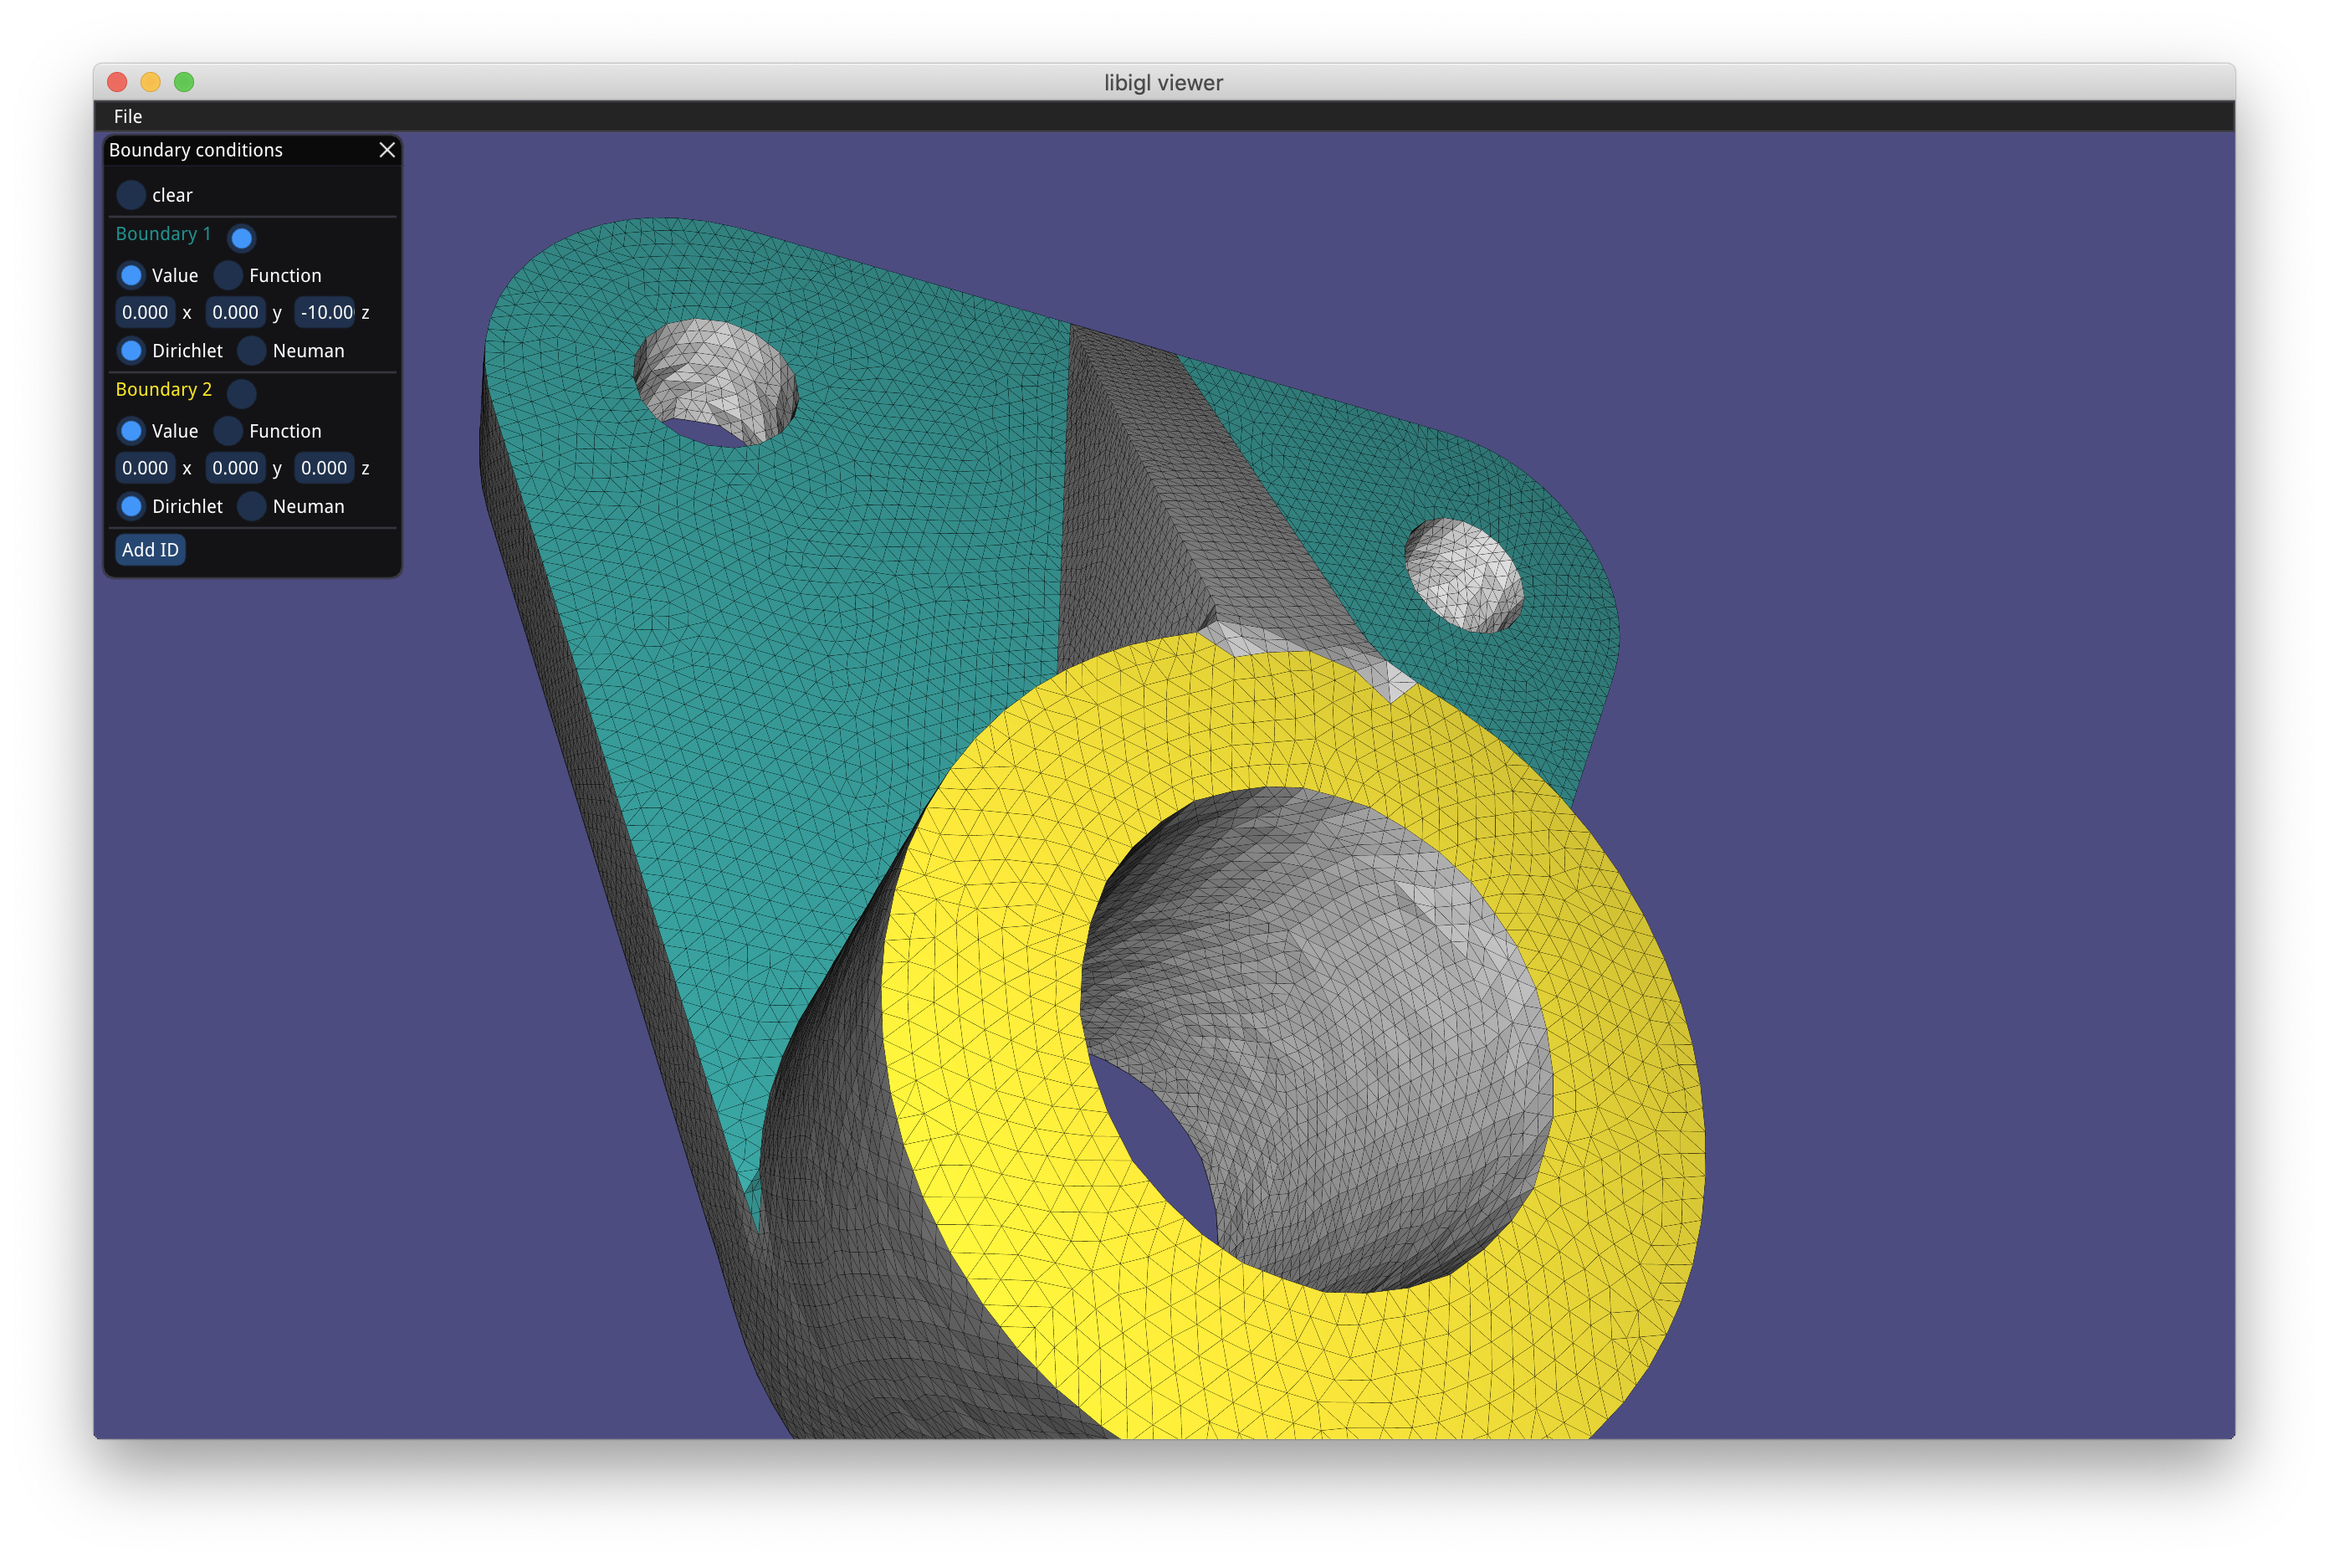
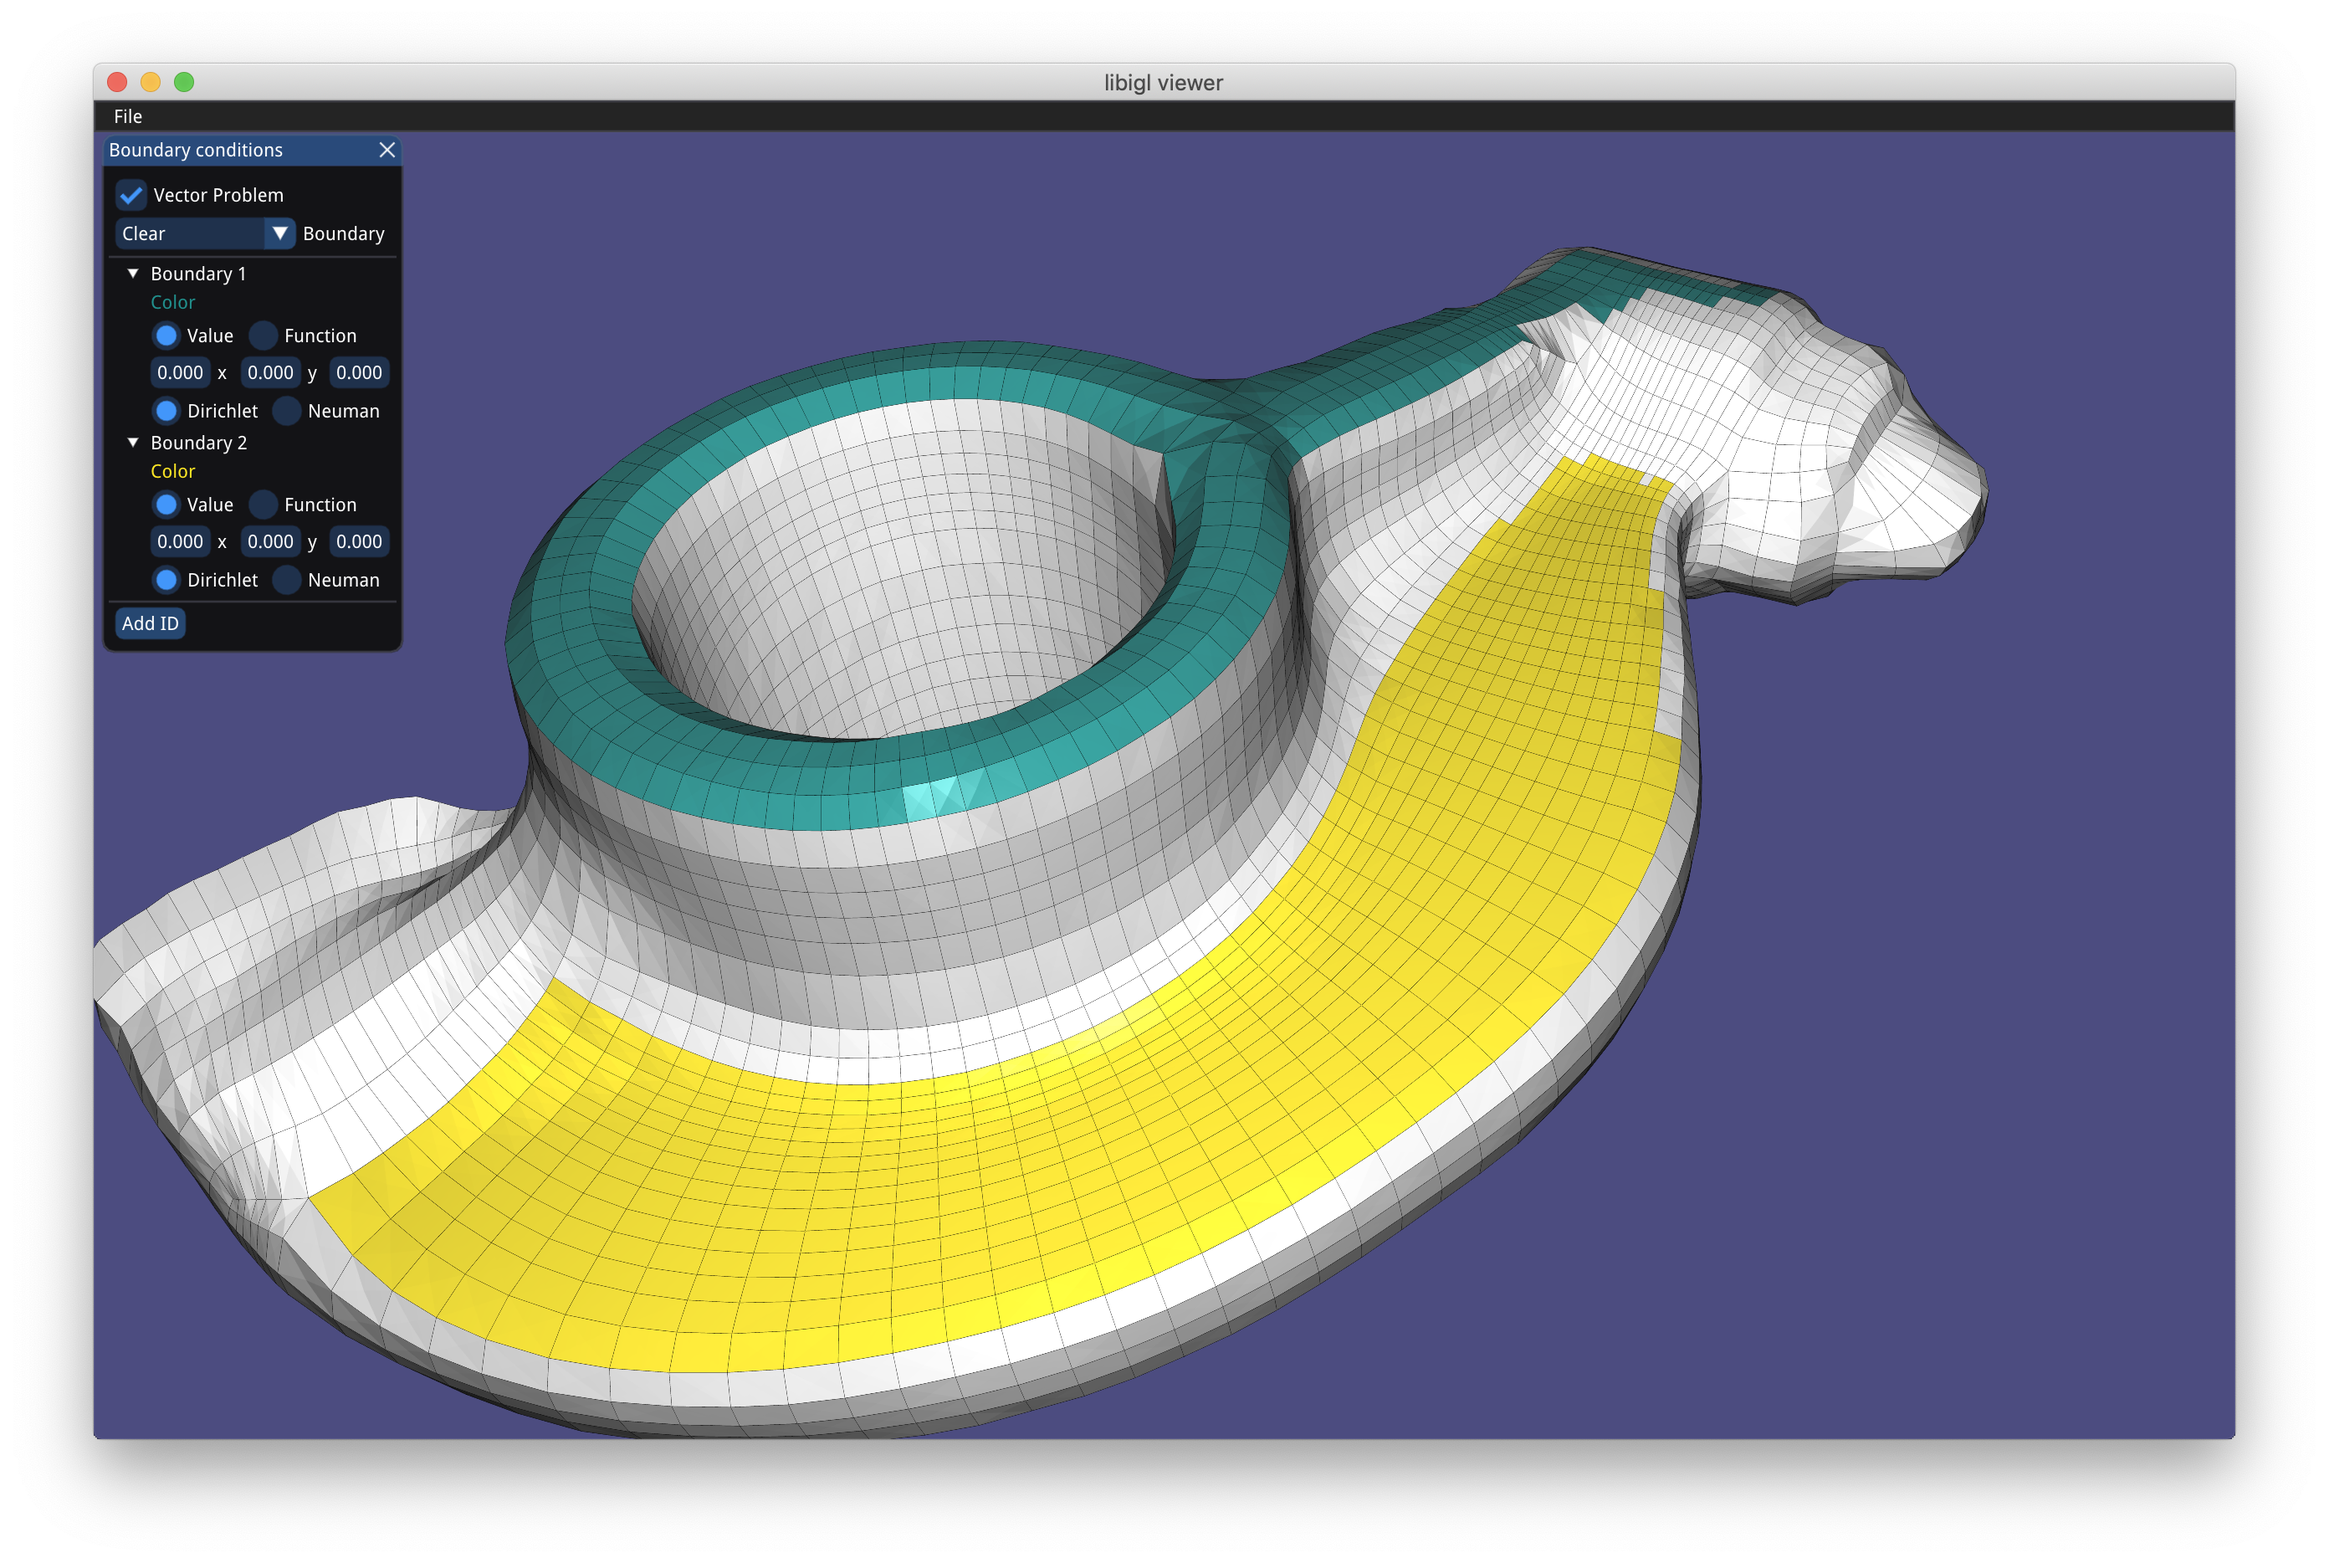
updated bc setter tutotrial

diff --git a/docs/documentation.md b/docs/documentation.md
@@ -89,7 +89,7 @@ Complete example
 * **tensor_formulation**: HookeLinearElasticity, LinearElasticity, NeoHookean, Ogden, SaintVenant
 * **mixed_formulation**: IncompressibleLinearElasticity, Stokes
 
-* **problem**: CompressionElasticExact, Cubic, DrivenCavity, Elastic, ElasticExact, ElasticZeroBC, Flow, Franke, GenericTensor, Gravity, Kernel, Linear, LinearElasticExact, MinSurf, PointBasedTensor, Quadratic, QuadraticElasticExact, Sine, TestProblem, TimeDependentFlow, TimeDependentScalar, TorsionElastic, Zero_BC
+* **problem**: CompressionElasticExact, Cubic, DrivenCavity, Elastic, ElasticExact, ElasticZeroBC, Flow, Franke, GenericScalar, GenericTensor, Gravity, Kernel, Linear, LinearElasticExact, MinSurf, PointBasedTensor, Quadratic, QuadraticElasticExact, Sine, TestProblem, TimeDependentFlow, TimeDependentScalar, TorsionElastic, Zero_BC
 
 
 * **solver_type**: Eigen::BiCGSTAB, Eigen::ConjugateGradient, Eigen::GMRES, Eigen::MINRES, Eigen::SimplicialLDLT, Eigen::SparseLU, Hypre,Pardiso
@@ -158,6 +158,35 @@ f_{3D}(x,y,z) &= \begin{bmatrix}(xy + x^2 + y^3 + 6z)/80\\ (xz - z^3 + xy^2 + 3x
 **Form**: scalar<br/>
 **Description**: solves for the 2D and 3D Franke function
 
+
+### GenericScalar
+**Has exact solution**: false<br/>
+**Time dependent**: false<br/>
+**Form**: scalar<br/>
+**Description**: solves for generic tensor problem with zero rhs<br/>
+**Options**:
+```json
+"use_mixed_formulation": false,     "Use mixed formulation"
+"dirichlet_boundary": [             "List of Dirichelt boundaries"
+{
+    "id": 1,                        "Boundary id"
+    "value": 0                      "Boundary value"
+},
+{
+    "id": 2,                        "Boundary id"
+    "value": "sin(x)+y"             "Formulas are supported"
+}],
+"neumann_boundary": [               "List of Neumann boundaries"
+{
+    "id": 3,                        "Boundary id"
+    "value": 1,                     "Boundary value"
+},
+{
+    "id": 4,                        "Boundary id"
+    "value": "x^2"                  "Formulas are supported"
+}]
+```
+
 ### GenericTensor
 **Has exact solution**: false<br/>
 **Time dependent**: false<br/>
@@ -178,16 +207,16 @@ f_{3D}(x,y,z) &= \begin{bmatrix}(xy + x^2 + y^3 + 6z)/80\\ (xz - z^3 + xy^2 + 3x
 },
 {
     "id": 2,                        "Boundary id"
-    "value": ["sin(x)+y", "z^2", 0],"Formulas are supported"
+    "value": ["sin(x)+y", "z^2", 0] "Formulas are supported"
 }],
 "neumann_boundary": [               "List of Neumann boundaries"
 {
     "id": 3,                        "Boundary id"
-    "value": [0, 0, 0],             "Boundary vector value"
+    "value": [0, 0, 0]              "Boundary vector value"
 },
 {
     "id": 4,                        "Boundary id"
-    "value": ["sin(x)+y", "z^2", 0],"Formulas are supported"
+    "value": ["sin(z)+y", "z^2", 0] "Formulas are supported"
 }]
 ```
 

diff --git a/docs/tutorial.md b/docs/tutorial.md
@@ -65,7 +65,7 @@ Boundary Conditions
 For more advanced problems such as `GenericTensor`, `TorsionElastic`, or `DrivenCavity` the boundary conditions might be different for each boundary. For instance for the `TorsionElastic` problem you need to specify which part is fixed and which part moves. PolyFEM uses boundary tags to mark boundary primitives (edges in 2D and faces in 3D). By default:
 
 - in 2D all edges which barycenter is close up to 1e-7 to the left side of the bounding box gets tag 1, the right side gets 3, bottom 2, and top 4. Any other boundary gets 7.
-- in 3D the threshold is a bit larger (1e-2) and x-direction gets 1, 3, y-direction gets 2,4, and z-direction gets 5,6. . Any other boundary gets 7.
+- in 3D the threshold is a bit larger (1e-2) and x-direction gets 1, 3, y-direction gets 2, 4, and z-direction gets 5, 6. Any other boundary gets 7.
 
 You can also specify a file containing a list of integers per each edge/face of the mesh indicating the tag in the json value `bc_tag`.
 
@@ -124,6 +124,6 @@ For the 2 Dirichlet is a bit more complicated because we want reflective boundar
 
 Note that as value you can also specify an expression as string depending on x,y,z and PolyFEM will evaluate that expression on the edge/face.
 
-Since creating the file with association from boundary to id it is complicated, we also provide an application `bc_setter` to interactively *color* faces of 3D meshes and associate tags. By *shift* clicking you can color coplanar faces to assign and id. The UI also allow to specify the 3 values to assign to that boundary condition and choose between Dirichelt and Neumann. On save it will produce the txt file with the tags and a json file with the specified `problem_params`.
+Since creating the file with association from boundary to id it is complicated, we also provide an application `bc_setter` to interactively *color* faces of 3D meshes (or edges of 2D meshes) and associate tags. By *shift* clicking you can color coplanar faces to assign and id (*command* or *control* click colors only one face). The UI also allow to specify the 3 values (for scalar problem only one) to assign to that boundary condition and choose between Dirichelt and Neumann. On save it will produce the txt file with the tags to be used in `bc_tag` and a json file to set the `problem_params`. Note, if you selected the vector problem you need to use `"problem": "GenericTensor"` otherwise `"problem": "GenericScalar"`.
 
 ![bc_setter](img/bc_setter.png)
